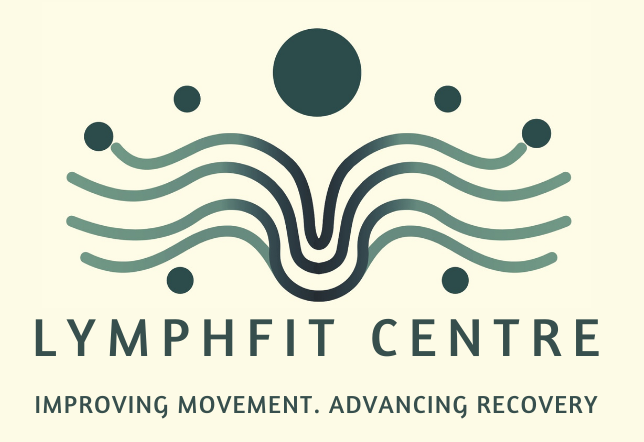
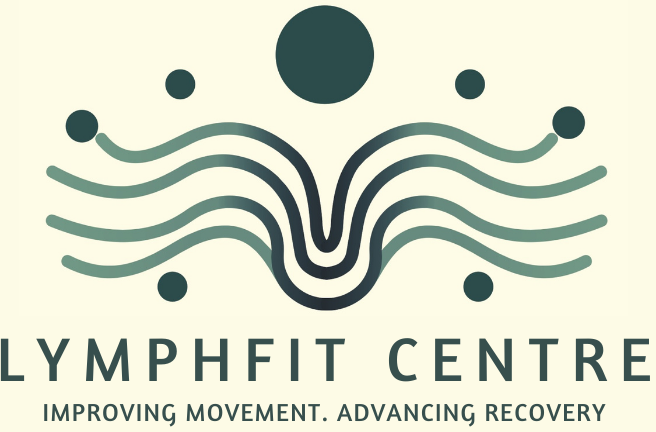
some changes don

diff --git a/index.html b/index.html
@@ -240,8 +240,6 @@
       body {
         font-family: "Segoe UI", Tahoma, Geneva, Verdana, sans-serif;
       }
-
-    
     </style>
   </head>
 
@@ -472,7 +470,10 @@
                 <div class="icon">
                   <i class="fas fa-dna"></i>
                 </div>
-                <a href="s1.html" class="stretched-link">
+                <a
+                  href="Lymphedema upper and lower extremity.html"
+                  class="stretched-link"
+                >
                   <h3 style="font-size: large">
                     Lymphedema (upper and lower extremity)
                   </h3>
@@ -492,7 +493,7 @@
                 <div class="icon">
                   <i class="fas fa-dna"></i>
                 </div>
-                <a href="s1.html" class="stretched-link">
+                <a href="post_sergical.html" class="stretched-link">
                   <h3 style="font-size: large">
                     Post-surgical swelling and lymphatic support
                   </h3>
@@ -512,7 +513,7 @@
                 <div class="icon">
                   <i class="fas fa-dna"></i>
                 </div>
-                <a href="s1.html" class="stretched-link">
+                <a href="Lipedema_Management.html" class="stretched-link">
                   <h3 style="font-size: large">Lipedema management</h3>
                 </a>
                 <!-- <p>Ut excepturi voluptatem nisi sed. Quidem fuga consequatur. Minus ea aut. Vel qui id voluptas adipisci
@@ -530,7 +531,7 @@
                 <div class="icon">
                   <i class="fas fa-dna"></i>
                 </div>
-                <a href="s1.html" class="stretched-link">
+                <a href="Phlebolymphedema.html" class="stretched-link">
                   <h3 style="font-size: large">
                     Chronic venous insufficiency-related swelling
                   </h3>
@@ -551,14 +552,14 @@
                 <div class="icon">
                   <i class="fas fa-dna"></i>
                 </div>
-                <a href="s1.html" class="stretched-link">
+                <a href="Cancer-Related Lymphedema Radiation, Chemotherapy  Lymph Node Removal.html" class="stretched-link">
                   <h3 style="font-size: large">
                     Radiation or cancer-related lymphatic dysfunction
                   </h3>
                 </a>
                 <!-- <p>Cumque et suscipit saepe. Est maiores autem enim facilis ut aut ipsam corporis aut. Sed animi at autem
                 alias eius labore.</p> -->
-                <a href="#" class="stretched-link"></a>
+                <a href="Cancer-Related Lymphedema Radiation, Chemotherapy  Lymph Node Removal.html" class="stretched-link"></a>
               </div>
             </div>
             <!-- End Service Item -->
@@ -572,14 +573,14 @@
                 <div class="icon">
                   <i class="fas fa-dna"></i>
                 </div>
-                <a href="s1.html" class="stretched-link">
+                <a href="Self-Management_and_Long-Term_Care_for_Lymphedema.html" class="stretched-link">
                   <h3 style="font-size: large">
                     Education on self-management and long-term care
                   </h3>
                 </a>
                 <!-- <p>Hic molestias ea quibusdam eos. Fugiat enim doloremque aut neque non et debitis iure. Corrupti
                 recusandae ducimus enim.</p> -->
-                <a href="#" class="stretched-link"></a>
+                <a href="Self-Management_and_Long-Term_Care_for_Lymphedema.html" class="stretched-link"></a>
               </div>
             </div>
             <!-- End Service Item -->
@@ -593,13 +594,13 @@
                 <div class="icon">
                   <i class="fas fa-dna"></i>
                 </div>
-                <a href="s1.html" class="stretched-link">
+                <a href="compression.html" class="stretched-link">
                   <h3 style="font-size: large">
                     Compression garment education and fitting
                   </h3>
                 </a>
-              
-                <a href="s1.html" class="stretched-link"></a>
+
+                <a href="compression.html" class="stretched-link"></a>
               </div>
             </div>
             <!-- End Service Item -->
@@ -957,12 +958,6 @@
               </div>
             </div>
           </div>
-
-          <!-- <div class="row mt-4 text-center" data-aos="fade-up"> -->
-          <!-- <div class="col-12"> -->
-          <!-- <a href="index.html#appointment" class="btn btn-primary btn-lg">Schedule Your Consultation Today</a> -->
-          <!-- </div> -->
-          <!-- </div> -->
         </div>
       </section>
 
@@ -1620,7 +1615,10 @@
                 <a href="Lipedema_Management.html">Lipedema Management</a>
               </li>
               <li>
-                <a href="Compression Garments for Lymphedema Education, Fitting & Ongoing Support.html">Compression Therapy</a>
+                <a
+                  href="Compression Garments for Lymphedema Education, Fitting & Ongoing Support.html"
+                  >Compression Therapy</a
+                >
               </li>
             </ul>
           </div>

diff --git a/Lymphedema upper and lower extremity.html b/Lymphedema upper and lower extremity.html
@@ -121,6 +121,30 @@
   </head>
 
   <body class="service-page">
+
+    <header class="main-header">
+      <div class="header-container">
+        <a href="index.html" class="site-logo">
+          <img src="assets/img/1.png" alt="Lymphfit Centre Logo" />
+        </a>
+
+        <nav class="primary-nav" id="primaryNavigation">
+          <ul>
+            <li><a href="index.html" class="current-page">Home</a></li>
+            <li><a href="#services">Services</a></li>
+            <!-- <li><a href="#departments">Departments</a></li> -->
+            <li><a href="#resources">Resources</a></li>
+            <li><a href="#contact">Contact Us</a></li>
+          </ul>
+          <a class="nav-button" href="#appointment">Book Appointment</a>
+        </nav>
+
+        <div class="menu-toggle" id="mobileMenuToggle">
+          <i class="bi bi-list"></i>
+        </div>
+      </div>
+    </header>
+
     <i class="mobile-nav-toggle d-xl-none bi bi-list"></i>
 
     <!-- Service Detail Content -->
@@ -466,8 +490,90 @@
         </div>
       </div>
     </section>
+    <footer id="footer" class="footer light-background">
+      <div class="container footer-top">
+        <div class="row gy-4">
+          <div class="col-lg-4 col-md-6 footer-about">
+            <a href="index.html" class="logo d-flex align-items-center">
+              <span class="sitename">Lymphfit Centre</span>
+            </a>
+            <div class="footer-contact pt-3">
+              <p>Opening soon in Ellicott City, MD</p>
+              <p></p>
+              <p class="mt-3">
+                <strong>Phone:</strong> <span>+1 443 741 1158</span>
+              </p>
+              <p>
+                <strong>Email:</strong> <span>Lymphfitcenter@gmail.com </span>
+              </p>
+            </div>
+          </div>
 
-    <!-- Same Footer as Index Page -->
+          <div class="col-lg-2 col-md-3 footer-links">
+            <h4>Useful Links</h4>
+            <ul>
+              <li><a href="#">Home</a></li>
+              <!-- <li><a href="#">About us</a></li> -->
+              <li><a href="#">Services</a></li>
+            </ul>
+          </div>
+
+          <div class="col-lg-2 col-md-3 footer-links">
+            <h4>Our Services</h4>
+            <ul>
+              <li>
+                <a href="lymphedema-treatment.html">Lymphedema Treatment</a>
+              </li>
+              <li>
+                <a href="post_sergical.html">Post-Surgical Care</a>
+              </li>
+              <li>
+                <a href="Lipedema_Management.html">Lipedema Management</a>
+              </li>
+              <li>
+                <a
+                  href="Compression Garments for Lymphedema Education, Fitting & Ongoing Support.html"
+                  >Compression Therapy</a
+                >
+              </li>
+            </ul>
+          </div>
+
+          <div class="col-lg-2 col-md-3 footer-links">
+            <h4>Hic solutasetp</h4>
+            <ul>
+              <li><a href="#">Molestiae accusamus iure</a></li>
+              <li><a href="#">Excepturi dignissimos</a></li>
+              <li><a href="#">Suscipit distinctio</a></li>
+              <li><a href="#">Dilecta</a></li>
+              <li><a href="#">Sit quas consectetur</a></li>
+            </ul>
+          </div>
+
+          <div class="col-lg-2 col-md-3 footer-links">
+            <h4>Nobis illum</h4>
+            <ul>
+              <li><a href="#">Ipsam</a></li>
+              <li><a href="#">Laudantium dolorum</a></li>
+              <li><a href="#">Dinera</a></li>
+              <li><a href="#">Trodelas</a></li>
+              <li><a href="#">Flexo</a></li>
+            </ul>
+          </div>
+        </div>
+      </div>
+
+      <div class="container copyright text-center mt-4">
+        <p>
+          © <span>Copyright</span>
+          <strong class="px-1 sitename">LymphFit Centre</strong>
+          <span>All Rights Reserved</span>
+        </p>
+        <div class="credits">
+          Designed by <a href="https://www.gptsoftwares.in/">GPT Software</a>
+        </div>
+      </div>
+    </footer>
 
     <!-- Scroll Top -->
     <a
@@ -476,6 +582,13 @@
       class="scroll-top d-flex align-items-center justify-content-center"
       ><i class="bi bi-arrow-up-short"></i
     ></a>
+
+    <!-- Preloader -->
+    <div id="preloader"></div>
+
+
+    <!-- Same Footer as Index Page -->
+
 
     <!-- Same JS Files as Index Page -->
     <script src="assets/vendor/bootstrap/js/bootstrap.bundle.min.js"></script>

diff --git a/Lipedema_Management.html b/Lipedema_Management.html
@@ -345,30 +345,7 @@
           </p>
         </div>
 
-        <div class="lipedema-section">
-          <div class="lipedema-container">
-            <h2 class="lipedema-subheading">
-              Ready to Start Your Lipedema Management Journey?
-            </h2>
-            <p>
-              Contact us today or sign up for more information about our
-              specialized lipedema care services.
-            </p>
-            <div class="lipedema-input-group">
-              <input
-                type="email"
-                class="lipedema-email-input"
-                placeholder="Your email address"
-              />
-              <button class="lipedema-button lipedema-primary-btn">
-                Get Information
-              </button>
-            </div>
-            <p class="lipedema-privacy-note">
-              We respect your privacy. Your information will never be shared.
-            </p>
-          </div>
-        </div>
+        
       </div>
     </div>
     <footer id="footer" class="footer light-background">

diff --git a/post_sergical.html b/post_sergical.html
@@ -328,29 +328,6 @@
             comfortably.
           </p>
         </div>
-
-        <div class="swell-section">
-          <div class="swell-container">
-            <h2 class="swell-subheading">Ready to Support Your Recovery?</h2>
-            <p>
-              Contact us today or sign up for more information about our
-              post-surgical lymphatic support services.
-            </p>
-            <div class="swell-input-group">
-              <input
-                type="email"
-                class="swell-email-input"
-                placeholder="Your email address"
-              />
-              <button class="swell-button swell-primary-btn">
-                Get Information
-              </button>
-            </div>
-            <p class="swell-privacy-note">
-              We respect your privacy. Your information will never be shared.
-            </p>
-          </div>
-        </div>
       </div>
     </div>
     <footer id="footer" class="footer light-background">

diff --git a/assets/css/main.css b/assets/css/main.css
@@ -1844,12 +1844,12 @@ p {
     display: flex;
     justify-content: space-between;
     align-items: center;
-    padding: 12px 5%;
+    padding: 5px 5%;
     max-width: 1400px;
     margin: 0 auto;
   }
   .site-logo img {
-    height: 78px;
+    height: 115px;
     width: auto;
   }
 
